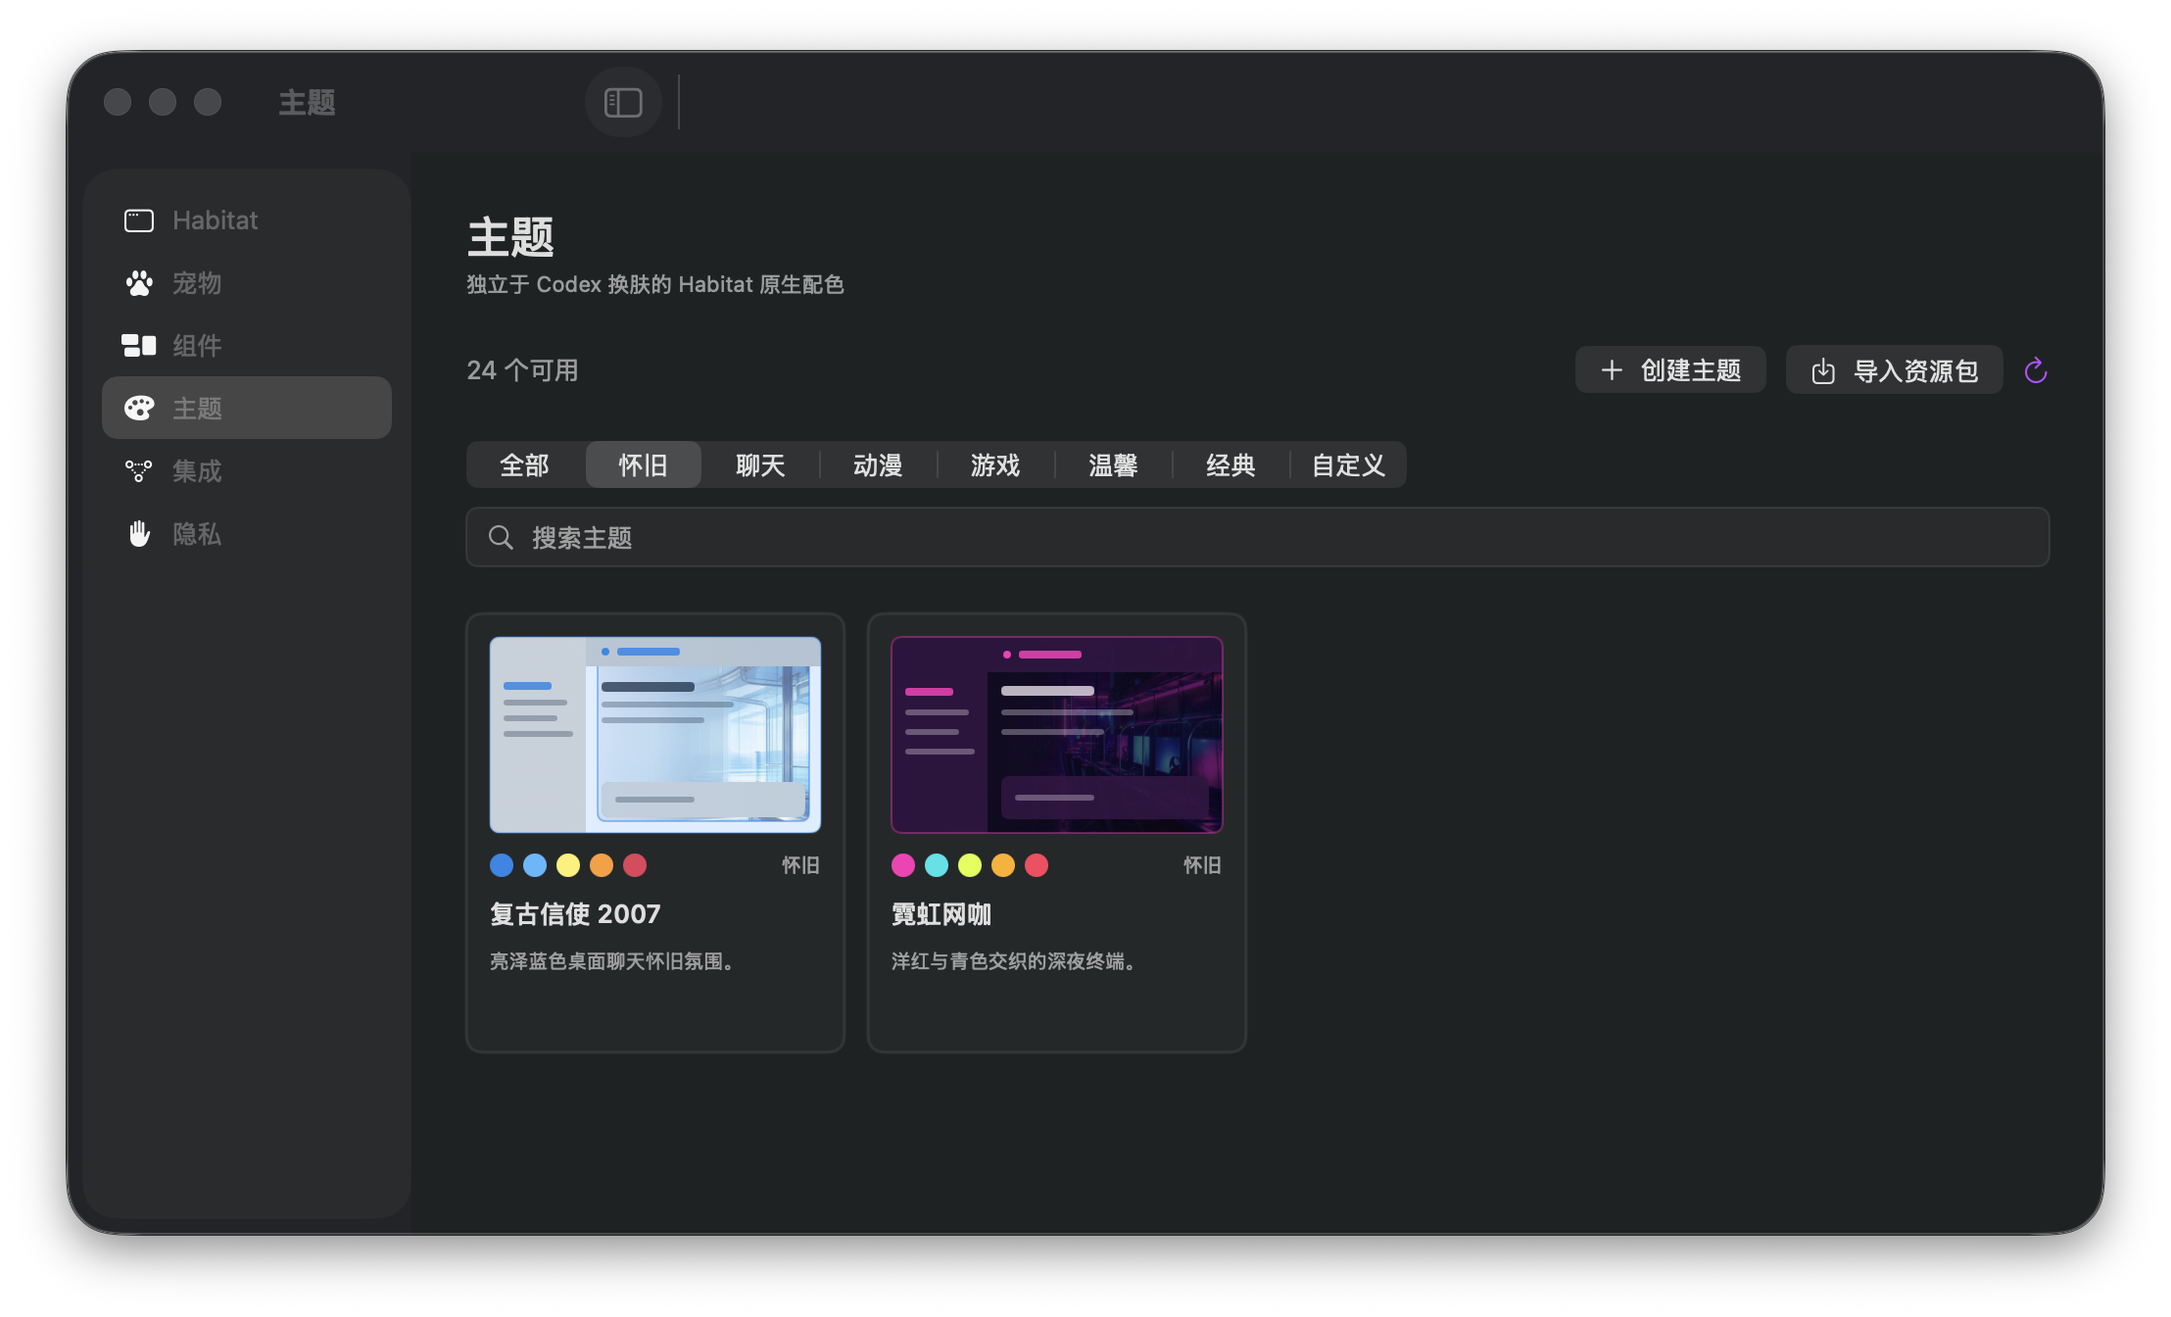
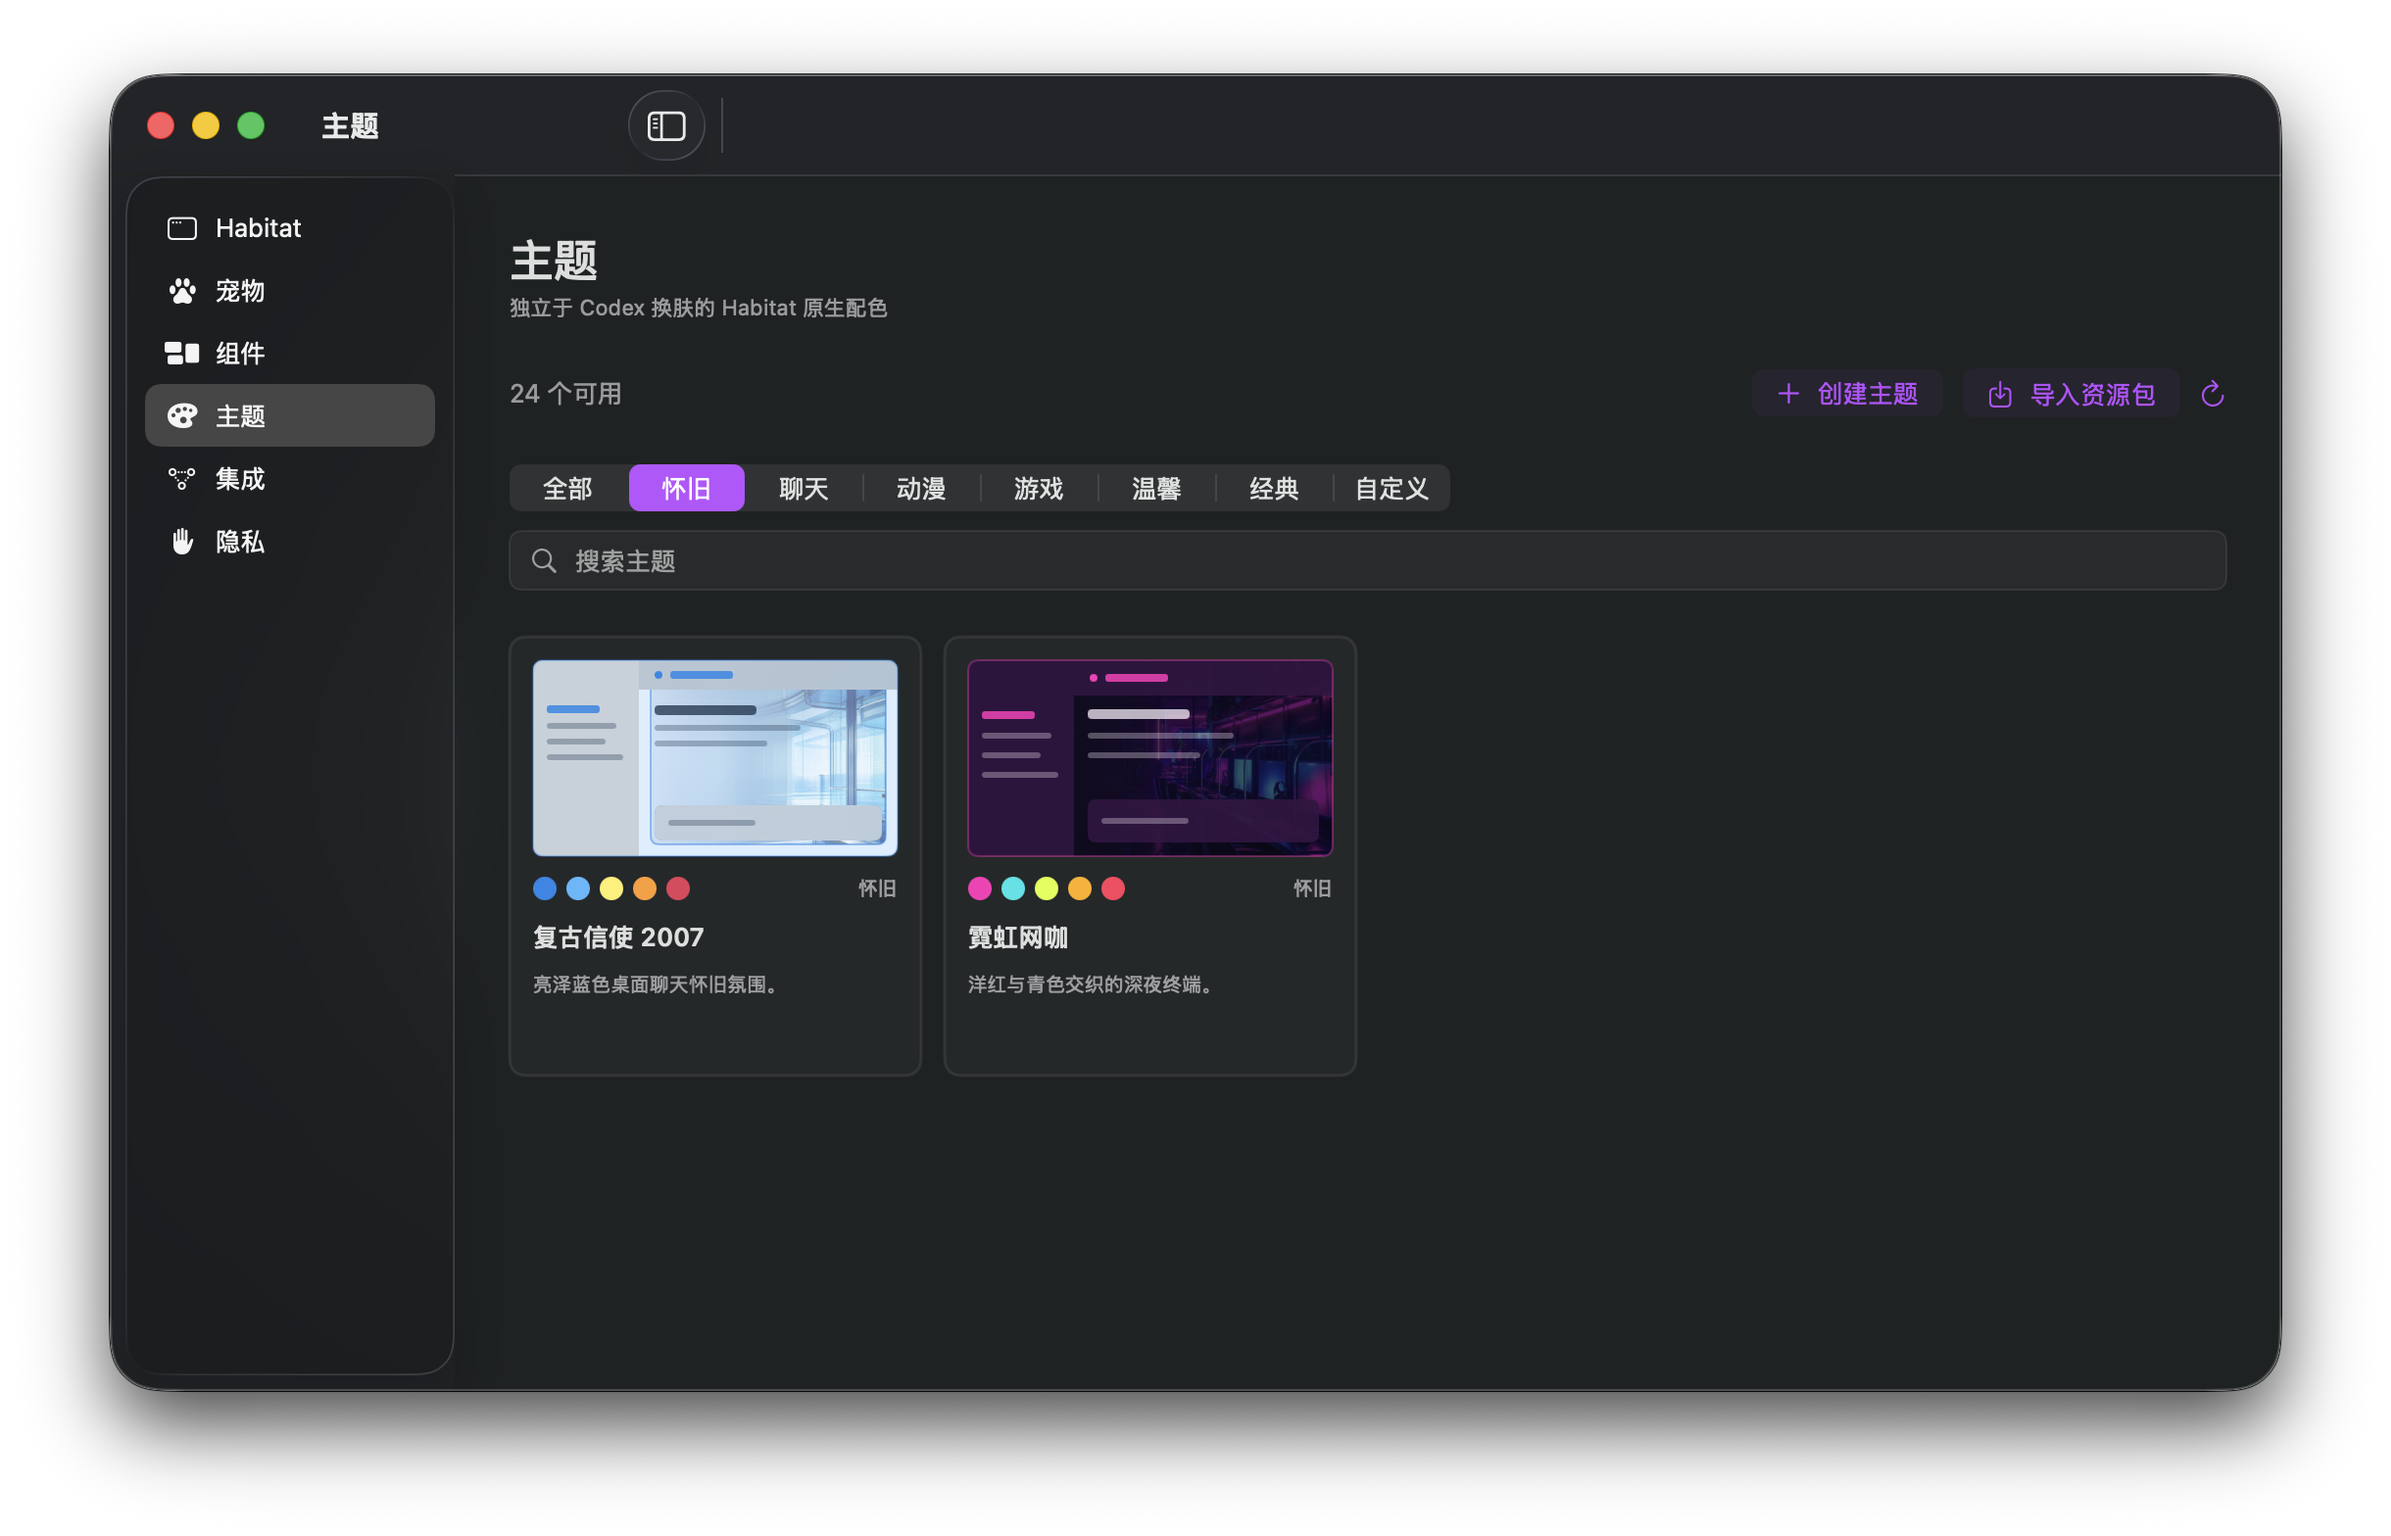
docs: record final build seven QA

diff --git a/docs/qa/macos-v1-checklist.md b/docs/qa/macos-v1-checklist.md
@@ -7,7 +7,7 @@ explicit user action.
 
 ## Automated and packaged
 
-- [x] Full Swift test suite passes: 291 tests including versioned CDP profiles, fail-closed target validation, bounded route-aware theme updates and complete bootstrap cleanup, pre-injection main-renderer health filtering, theme protocol, image bounds, thumbnail cache invalidation, theme-navigation resource isolation, off-main pet renderer construction, localization, lifecycle, and performance budgets.
+- [x] Full Swift test suite passes: 305 tests including versioned CDP profiles, fail-closed target validation, bounded route-aware theme updates and complete bootstrap cleanup, pre-injection main-renderer health filtering, theme protocol, image and pet-import bounds, thumbnail cache invalidation, theme-navigation resource isolation, serialized off-main pet renderer construction, future-settings-schema read-only behavior, localization, lifecycle, and performance budgets.
 - [x] Production Swift build completes without warnings.
 - [x] Ad-hoc `.app` passes strict/deep signature and hardened-runtime checks.
 - [x] Sparkle 2.9.4 framework, XPC services, updater, and autoupdate signatures validate.
@@ -17,7 +17,7 @@ explicit user action.
 - [x] Standard `Contents/Resources` load works without `.build` fallback.
 - [x] Packaged `en` and `zh-Hans` localization catalogs are declared and copied into the main app resources.
 - [x] DMG mounts read-only, contains the app and `/Applications` link, and runs the packaged version command.
[2 lines of base64/hex data omitted]
 - [x] Ad-hoc builds disable network updates and use a local-only library-validation exception.
 - [ ] Developer ID build, Apple notarization, stapling, and Gatekeeper acceptance with production credentials.
 
@@ -53,7 +53,7 @@ explicit user action.
 - [x] Pet refresh is capped at 8 Hz active; resting, offline, and Reduce Motion are static.
 - [x] Sprite frames are cropped once and reused by subsequent redraws.
 - [x] Pet sprites decode only the requested thumbnail frame off the main thread and cache both successful and missing results.
-- [x] Selecting a different pet builds and precrops its immutable renderer off the main actor, keeps the current pet visible until publication, and discards cancelled stale results during rapid switching.
+- [x] Selecting a different pet builds and precrops its immutable renderer off the main actor through one serial worker, keeps the current pet visible until publication, prevents overlapping decodes during rapid switching, and discards cancelled stale results.
 - [x] Theme previews downsample to at most 480 px off the main thread, cache successful and missing results, and invalidate when local file size or modification time changes.
 - [x] Build 6 native Settings runs measured Integrations -> Themes at 0.145-0.156 s after removing the appearance-time full resource refresh; theme-card clicks measured 0.168-0.225 s, and a concurrent sample contained zero pet asset resolution or sprite-frame precropping stacks.
 - [x] Build 7 prototype gallery and narrow Theme Studio QA emitted zero “Publishing changes from within view updates”, AttributeGraph-cycle, or layout-recursion warnings.
@@ -70,7 +70,7 @@ explicit user action.
 - [x] Export removes unknown path, user, thread, and token fields and writes mode 0600.
 - [x] Diagnostics rotate after seven days and can be cleared independently of settings/resources.
 - [x] Petdex is opt-in; HTTPS host, redirects, size, license, hash, and content ID are checked.
-- [x] Invalid packages, symlinks, active content, and archive traversal fail before publication.
+- [x] Invalid packages, symlinks, active content, and archive traversal fail before publication. Pet imports additionally bound manifest and image bytes, text/path lengths, single-frame PNG/JPEG/WebP containers, 8192-pixel dimensions, and 32-million-pixel canvases before renderer construction.
 - [x] Official Codex bundle verification is read-only and passes for `26.715.31925` arm64; its narrow profile selectors, official `initialRoute` main-page query, and auxiliary pet renderer were confirmed from a read-only `app.asar` extraction before enabling automated main-renderer health-gate coverage.
 - [x] Session fallback reads file metadata only and exposes an explicit `Local activity estimate` state.
 - [x] Installed Codex `26.707.91948` contains the `codex-theme-v1` Import/Copy shape; Habitat's clipboard encoder matches its required local schema.

diff --git a/docs/qa/screenshots/2026-07-18/README.md b/docs/qa/screenshots/2026-07-18/README.md
@@ -8,14 +8,16 @@ or helper process existed, and Codex retained PID `23647` and its original
 
 ## Captures
 
-- [`gallery-prototypes.png`](gallery-prototypes.png): wide 1040-point theme
+- [`gallery-prototypes.png`](gallery-prototypes.png): 1152-point theme
   gallery showing the composed whole-window previews for Cathedral Foundry,
   Arcade Signal, Quiet Garden, and the beginning of the blue-glass Retro
-  Messenger row. The Retina capture is 2304 x 1432 including the window shadow.
-- [`retro-framed-preview.png`](retro-framed-preview.png): wide 1040-point
+  Messenger row. The visible Retina window content is 2304 x 1432; the complete
+  PNG is 2528 x 1656 including the macOS capture margin and shadow.
+- [`retro-framed-preview.png`](retro-framed-preview.png): 1108-point
   Nostalgia view showing Retro Messenger 2007 with artwork confined to the
   inset main pane beside its light grouped sidebar. The Retina capture is
-  2216 x 1344 including the window shadow.
+  2440 x 1568 including the macOS capture margin and shadow, with 2216 x 1344
+  of visible window content.
 - [`theme-studio-route-controls.png`](theme-studio-route-controls.png): narrow
   760-point parent with the Studio scrolled to the typed style, density, safe
   side, home treatment, task treatment, and chrome material controls. The
